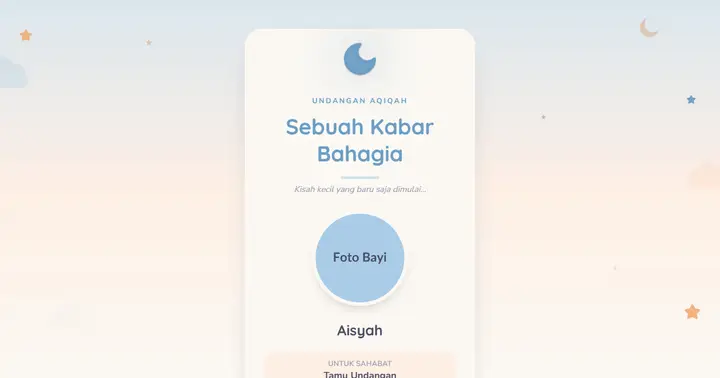
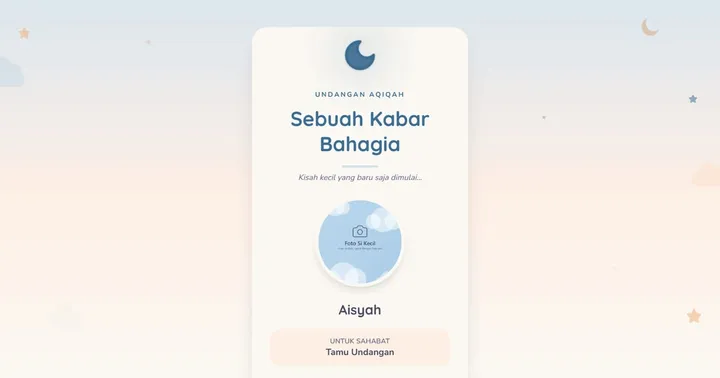
Demo Undangan: nama fiktif terbaru dan gambar baru
Undangan dirombak: TechNusantara (organisasi nyata) -> Temu Rekayasa Nusa,
SMA Harapan Bangsa (sekolah nyata) -> SMA Kencana Mulia. Thumbnail 8 demo
dan gambar kartu "Undangan Digital" diambil ulang dari versi baru.

diff --git a/app/lib/demos.ts b/app/lib/demos.ts
@@ -41,11 +41,11 @@ export const DEMOS: Demo[] = [
   { slug: "tastycorner", name: "Tasty Corner", tagline: "Strategi F&B yang Menggugah Selera", category: 'landing', url: "https://landing-tastycorner.vercel.app" },
   { slug: "woodora", name: "Woodora", tagline: "Furnitur Berkualitas untuk Rumah Impian", category: 'landing', url: "https://landing-woodora.vercel.app" },
   { slug: "zychrome", name: "Zychrome", tagline: "Webinar Interaktif Para Ahli", category: 'landing', url: "https://landing-zychrome.vercel.app" },
-  { slug: "corporate", name: "Undangan Acara Korporat Digital", tagline: "TechNusantara Summit 2026", category: 'undangan', url: "https://undangan-corporate-delta.vercel.app" },
+  { slug: "corporate", name: "Situs Acara Korporat Digital", tagline: "Temu Rekayasa Nusa 2027", category: 'undangan', url: "https://undangan-corporate-delta.vercel.app" },
   { slug: "aqiqah", name: "Undangan Aqiqah Digital", tagline: "Aisyah Khairunnisa", category: 'undangan', url: "https://undangan-aqiqah-puce.vercel.app" },
   { slug: "khitanan", name: "Undangan Khitanan Digital", tagline: "Kapten Fauzan", category: 'undangan', url: "https://undangan-khitanan-theta.vercel.app" },
   { slug: "wedding", name: "Undangan Pernikahan Digital", tagline: "Raka & Sinta", category: 'undangan', url: "https://undangan-wedding-eight.vercel.app" },
-  { slug: "reuni", name: "Undangan Reuni Digital", tagline: "Angkatan 2010 SMA Harapan Bangsa", category: 'undangan', url: "https://undangan-reuni-livid.vercel.app" },
+  { slug: "reuni", name: "Undangan Reuni Digital", tagline: "Angkatan 2010 SMA Kencana Mulia", category: 'undangan', url: "https://undangan-reuni-livid.vercel.app" },
   { slug: "engagement", name: "Undangan Tunangan Digital", tagline: "Raka & Sinta", category: 'undangan', url: "https://undangan-engagement.vercel.app" },
   { slug: "birthday", name: "Undangan Ulang Tahun Digital", tagline: "Kayla", category: 'undangan', url: "https://undangan-birthday.vercel.app" },
   { slug: "wisuda", name: "Undangan Wisuda Digital", tagline: "Dimas Prasetyo", category: 'undangan', url: "https://undangan-wisuda-ten.vercel.app" },
